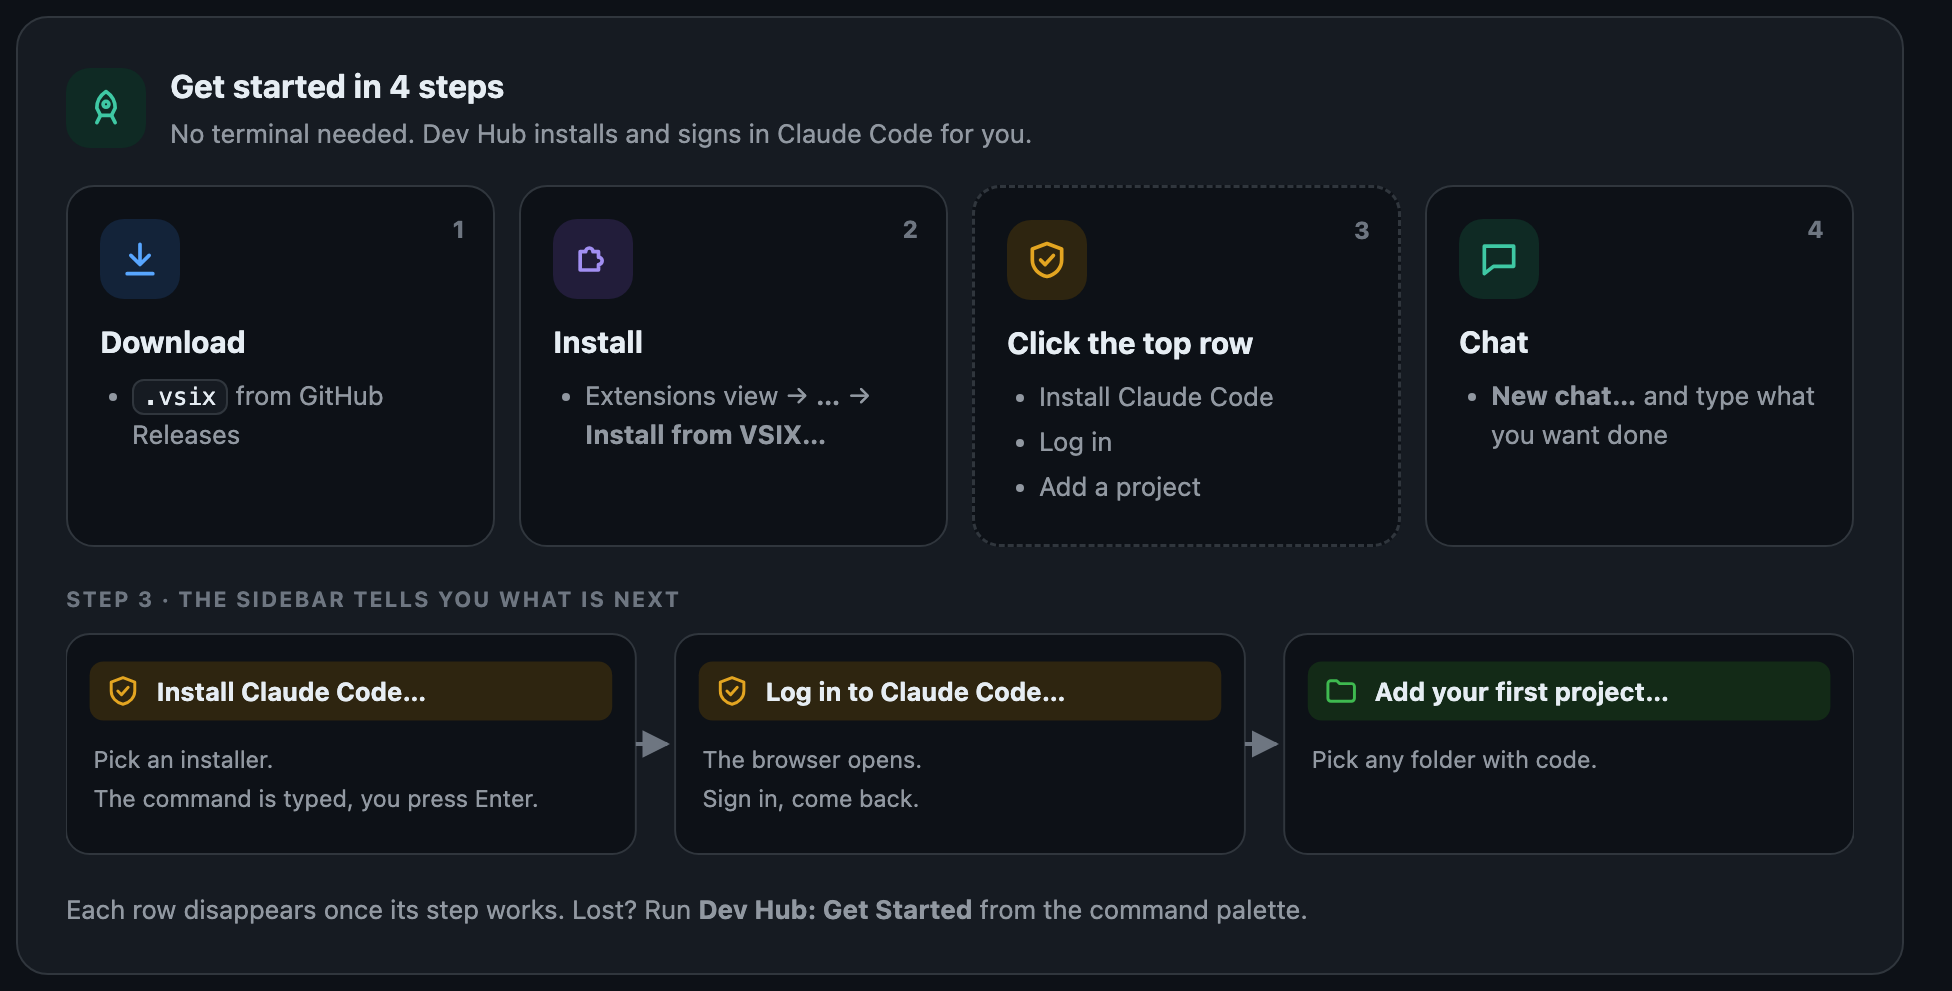
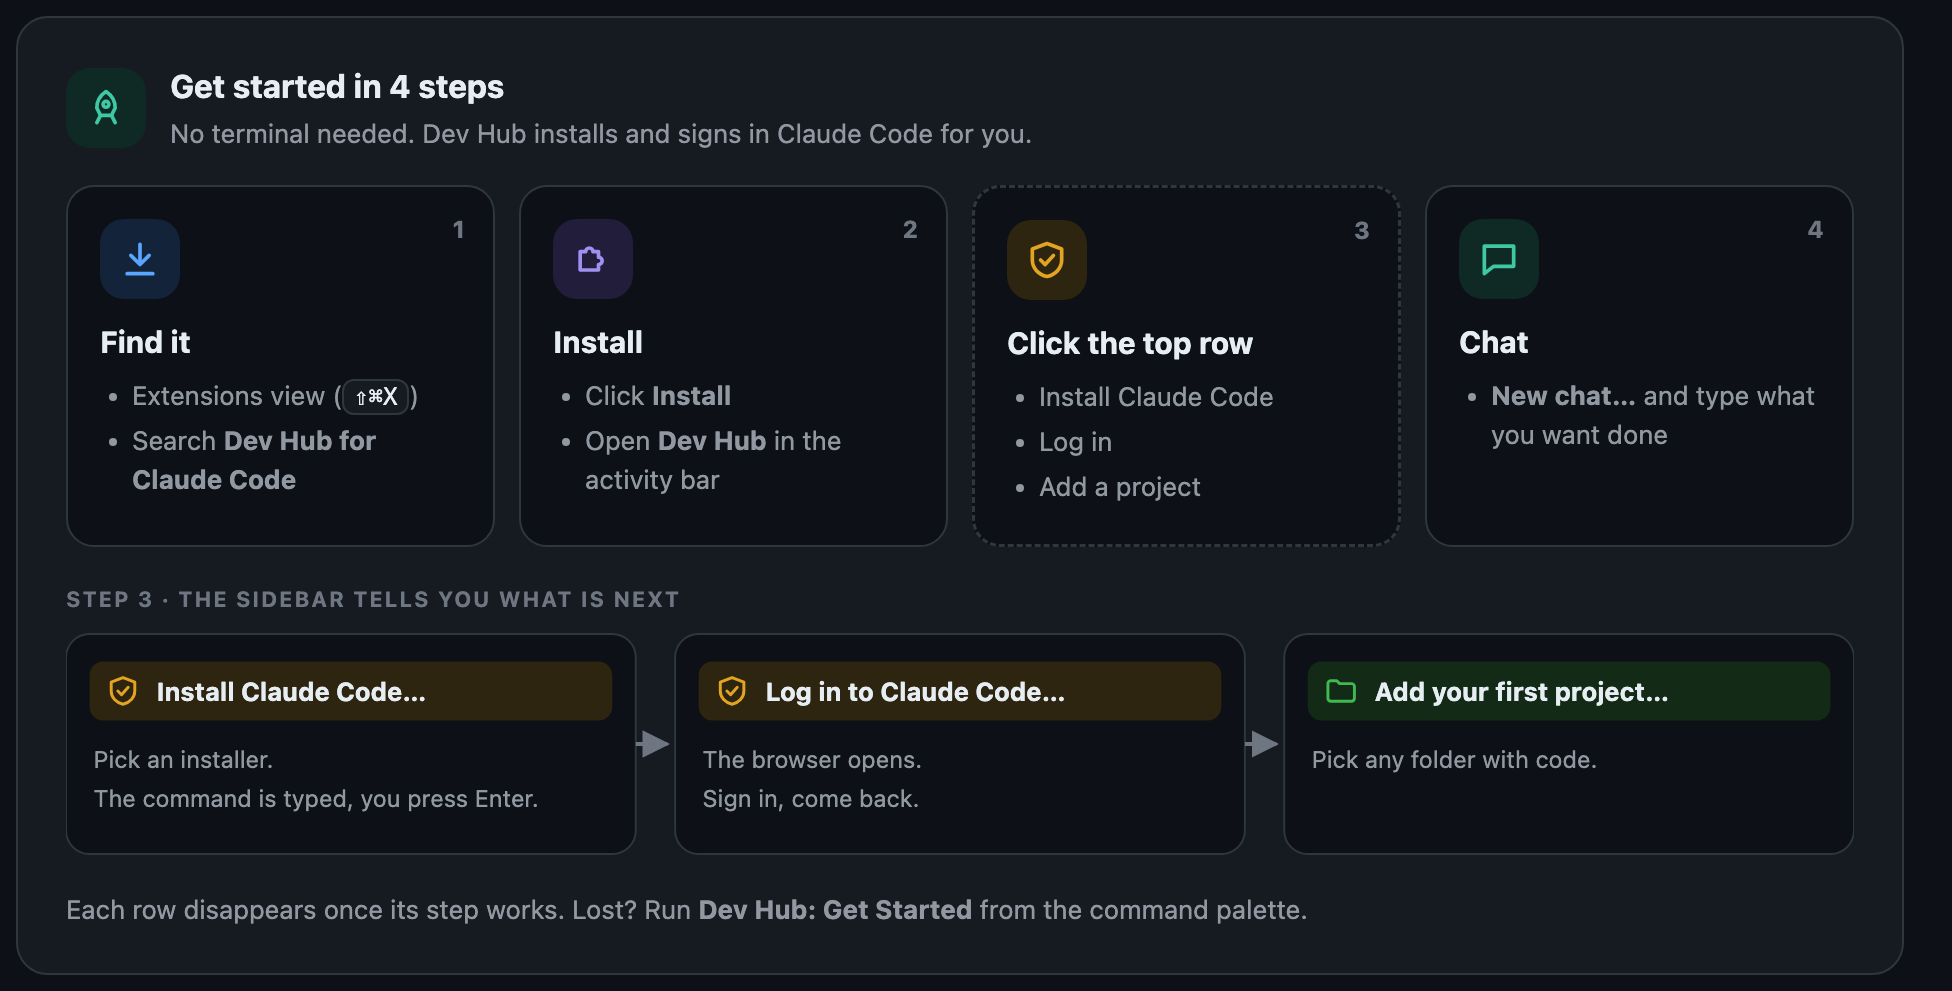
README: install from the VS Code Marketplace

Changed region(s): [[0.0625, 0.3935, 0.2188, 0.5146], [0.2812, 0.3935, 0.4375, 0.5146], [0.0312, 0.333, 0.125, 0.3633]]

diff --git a/docs/cards/build.js b/docs/cards/build.js
@@ -100,8 +100,8 @@ hero:()=>`<section style="background:linear-gradient(135deg,var(--teal-soft),var
 start:()=>`<section>
   ${head('rocket','teal','Get started in 4 steps','No terminal needed. Dev Hub installs and signs in Claude Code for you.')}
   <div class="grid g4">
-    <div class="sc"><span class="num">1</span>${ic('download','blue')}<h3>Download</h3><ul><li><code>.vsix</code> from GitHub Releases</li></ul></div>
-    <div class="sc"><span class="num">2</span>${ic('puzzle','violet')}<h3>Install</h3><ul><li>Extensions view → <b>…</b> → <b>Install from VSIX…</b></li></ul></div>
+    <div class="sc"><span class="num">1</span>${ic('download','blue')}<h3>Find it</h3><ul><li>Extensions view (<kbd>⇧⌘X</kbd>)</li><li>Search <b>Dev Hub for Claude Code</b></li></ul></div>
+    <div class="sc"><span class="num">2</span>${ic('puzzle','violet')}<h3>Install</h3><ul><li>Click <b>Install</b></li><li>Open <b>Dev Hub</b> in the activity bar</li></ul></div>
     <div class="sc you"><span class="num">3</span>${ic('shield','amber')}<h3>Click the top row</h3><ul><li>Install Claude Code</li><li>Log in</li><li>Add a project</li></ul></div>
     <div class="sc"><span class="num">4</span>${ic('chat','teal')}<h3>Chat</h3><ul><li><b>New chat…</b> and type what you want done</li></ul></div>
   </div>

diff --git a/README.md b/README.md
@@ -4,6 +4,7 @@
 
 [![CI](https://github.com/TyronNA/devhub-for-claude-code/actions/workflows/ci.yml/badge.svg)](https://github.com/TyronNA/devhub-for-claude-code/actions/workflows/ci.yml)
 [![Release](https://img.shields.io/github/v/release/TyronNA/devhub-for-claude-code)](https://github.com/TyronNA/devhub-for-claude-code/releases)
+[![VS Code Marketplace](https://img.shields.io/badge/VS%20Code%20Marketplace-install-007ACC)](https://marketplace.visualstudio.com/items?itemName=tyronna.dev-hub-claude-codex)
 [![License: MIT](https://img.shields.io/badge/license-MIT-blue.svg)](LICENSE)
 
 <picture>
@@ -21,10 +22,10 @@
 
 <picture>
   <source media="(prefers-color-scheme: dark)" srcset="https://raw.githubusercontent.com/TyronNA/devhub-for-claude-code/main/docs/images/card-start-dark.png">
-  <img src="https://raw.githubusercontent.com/TyronNA/devhub-for-claude-code/main/docs/images/card-start-light.png" alt="Four steps: download the vsix, install it from the Extensions view, click the top row of the Dev Hub sidebar until it is gone (install Claude Code, log in, add a project), then start a chat.">
+  <img src="https://raw.githubusercontent.com/TyronNA/devhub-for-claude-code/main/docs/images/card-start-light.png" alt="Four steps: search Dev Hub for Claude Code in the Extensions view, install it, click the top row of the Dev Hub sidebar until it is gone (install Claude Code, log in, add a project), then start a chat.">
 </picture>
 
-**[Download the .vsix](https://github.com/TyronNA/devhub-for-claude-code/releases)** · needs VS Code 1.95+, macOS or Linux, and a
+**[Install from the VS Code Marketplace](https://marketplace.visualstudio.com/items?itemName=tyronna.dev-hub-claude-codex)** (or `code --install-extension tyronna.dev-hub-claude-codex`) · needs VS Code 1.95+, macOS or Linux, and a
 Claude Pro / Max / Team / Enterprise plan (the free plan has no Claude Code).
 
 <details>
